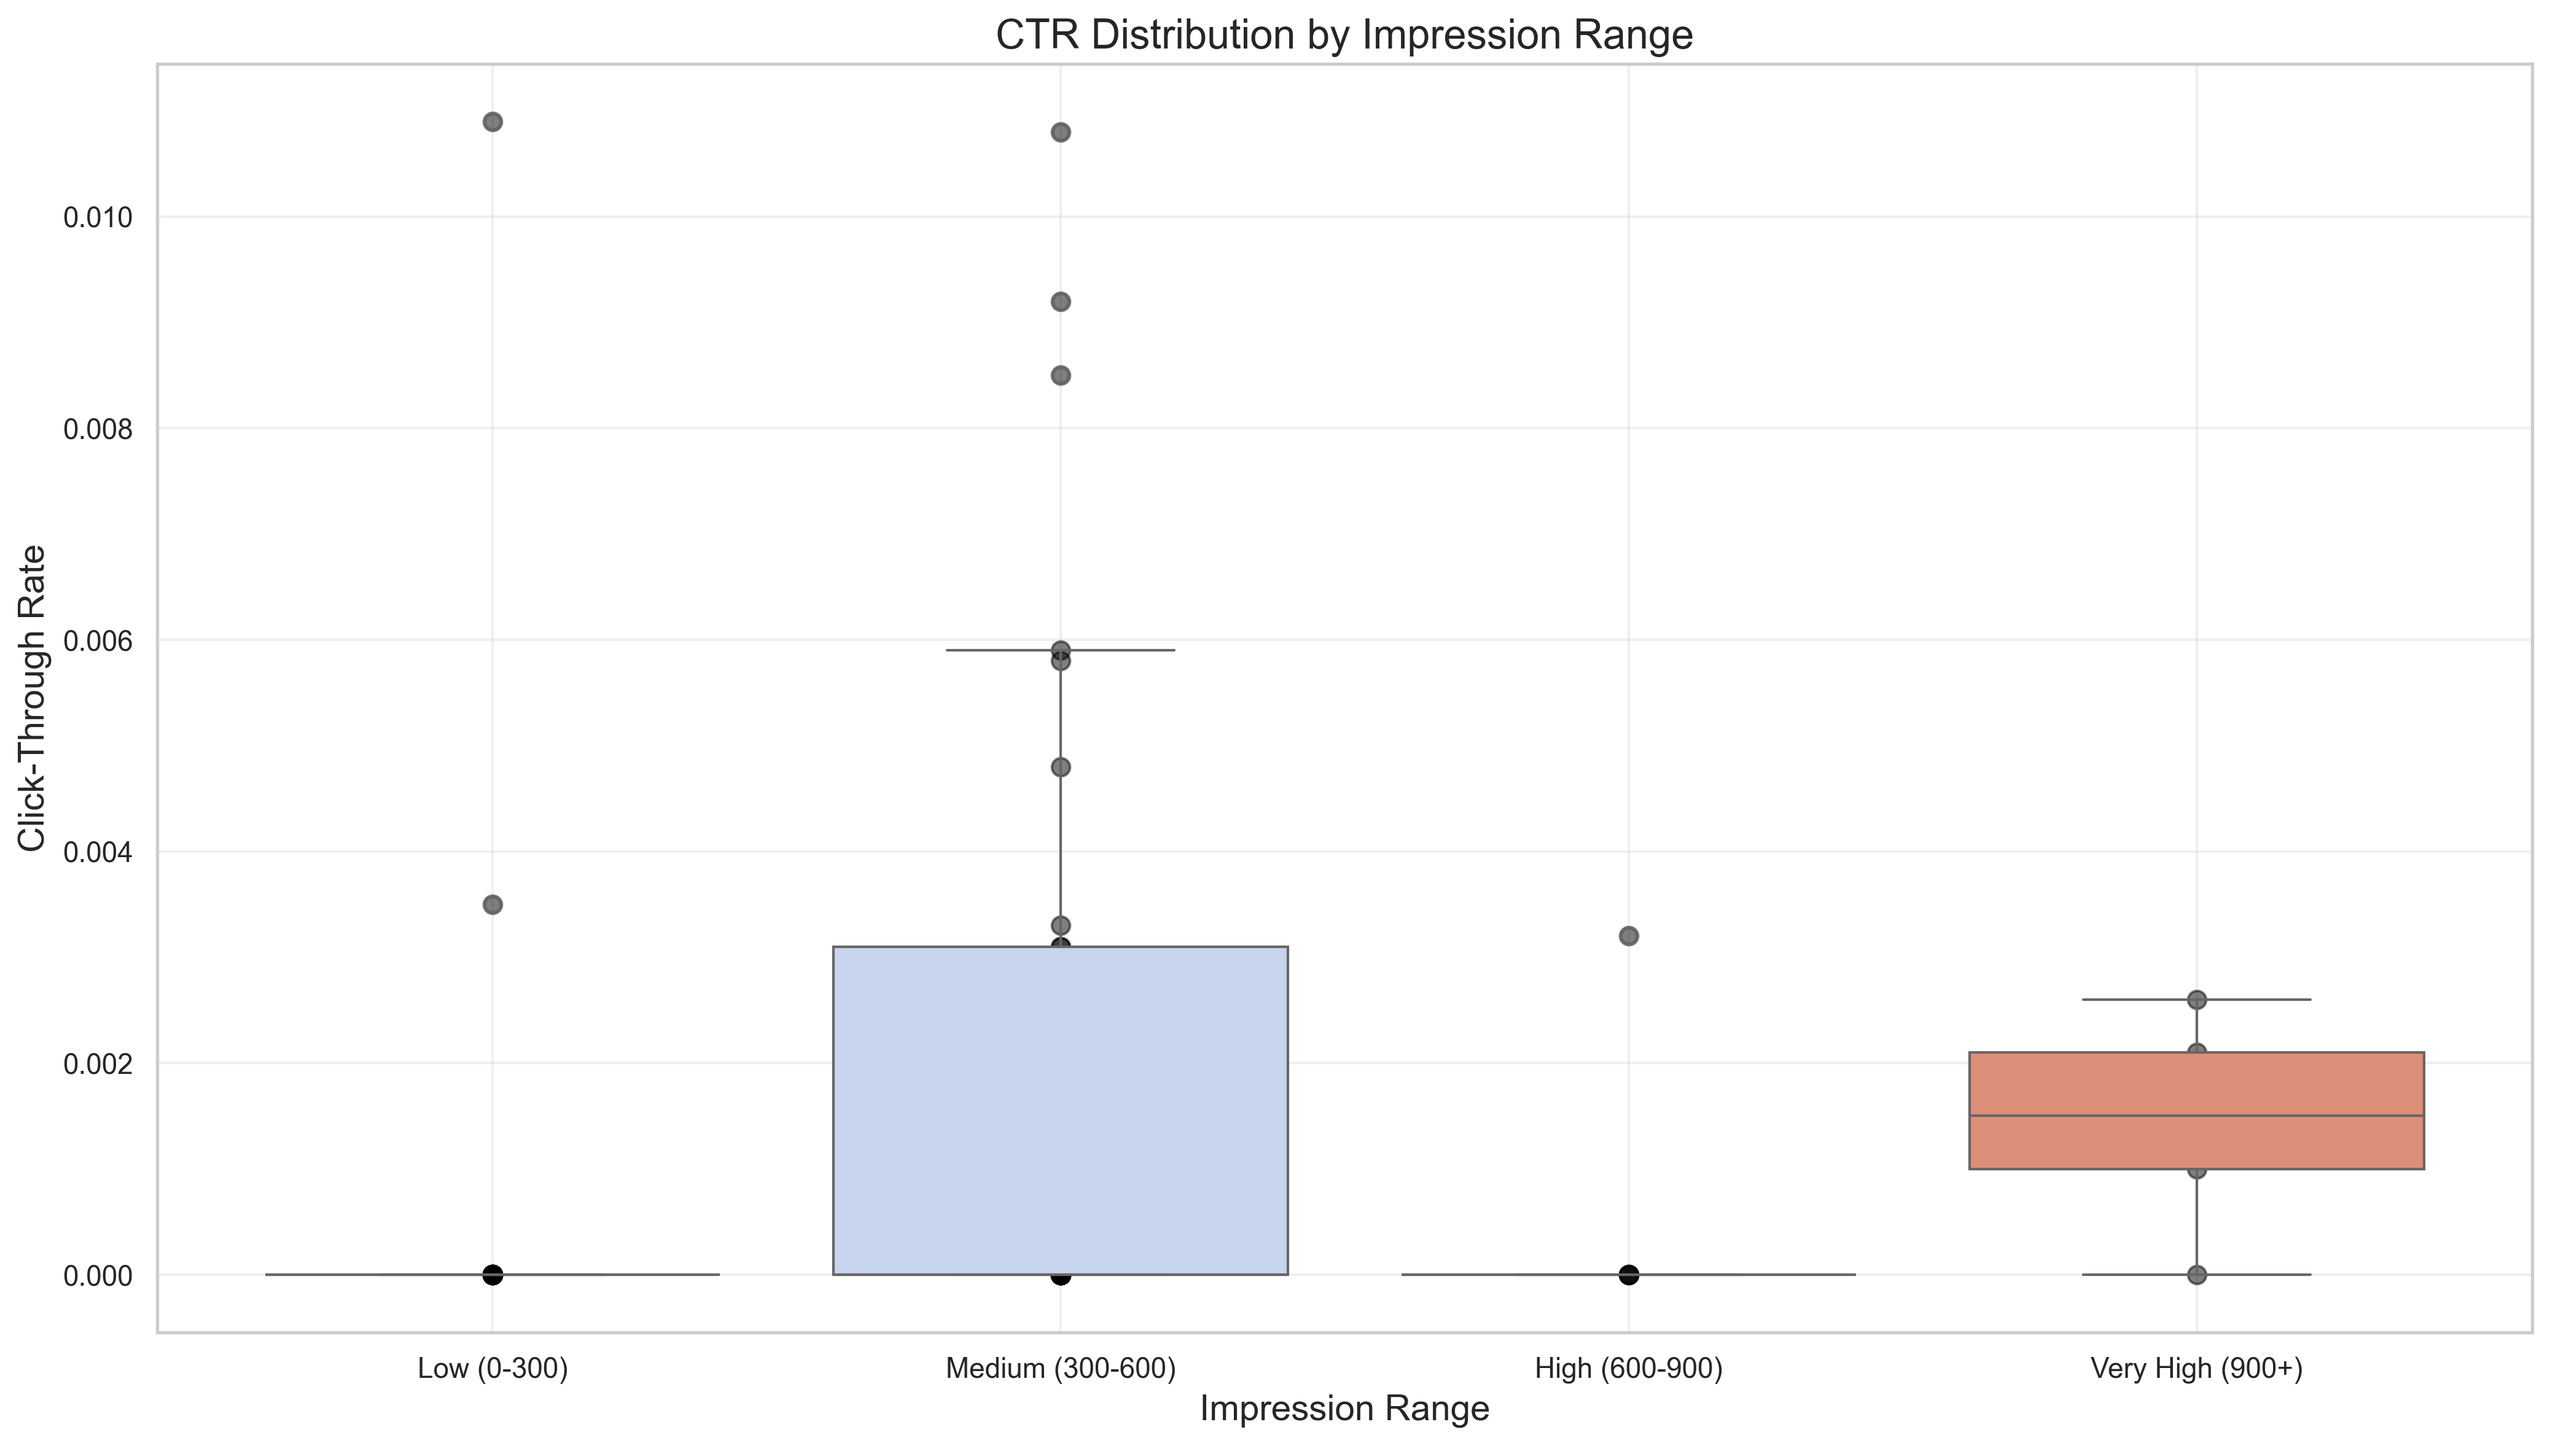
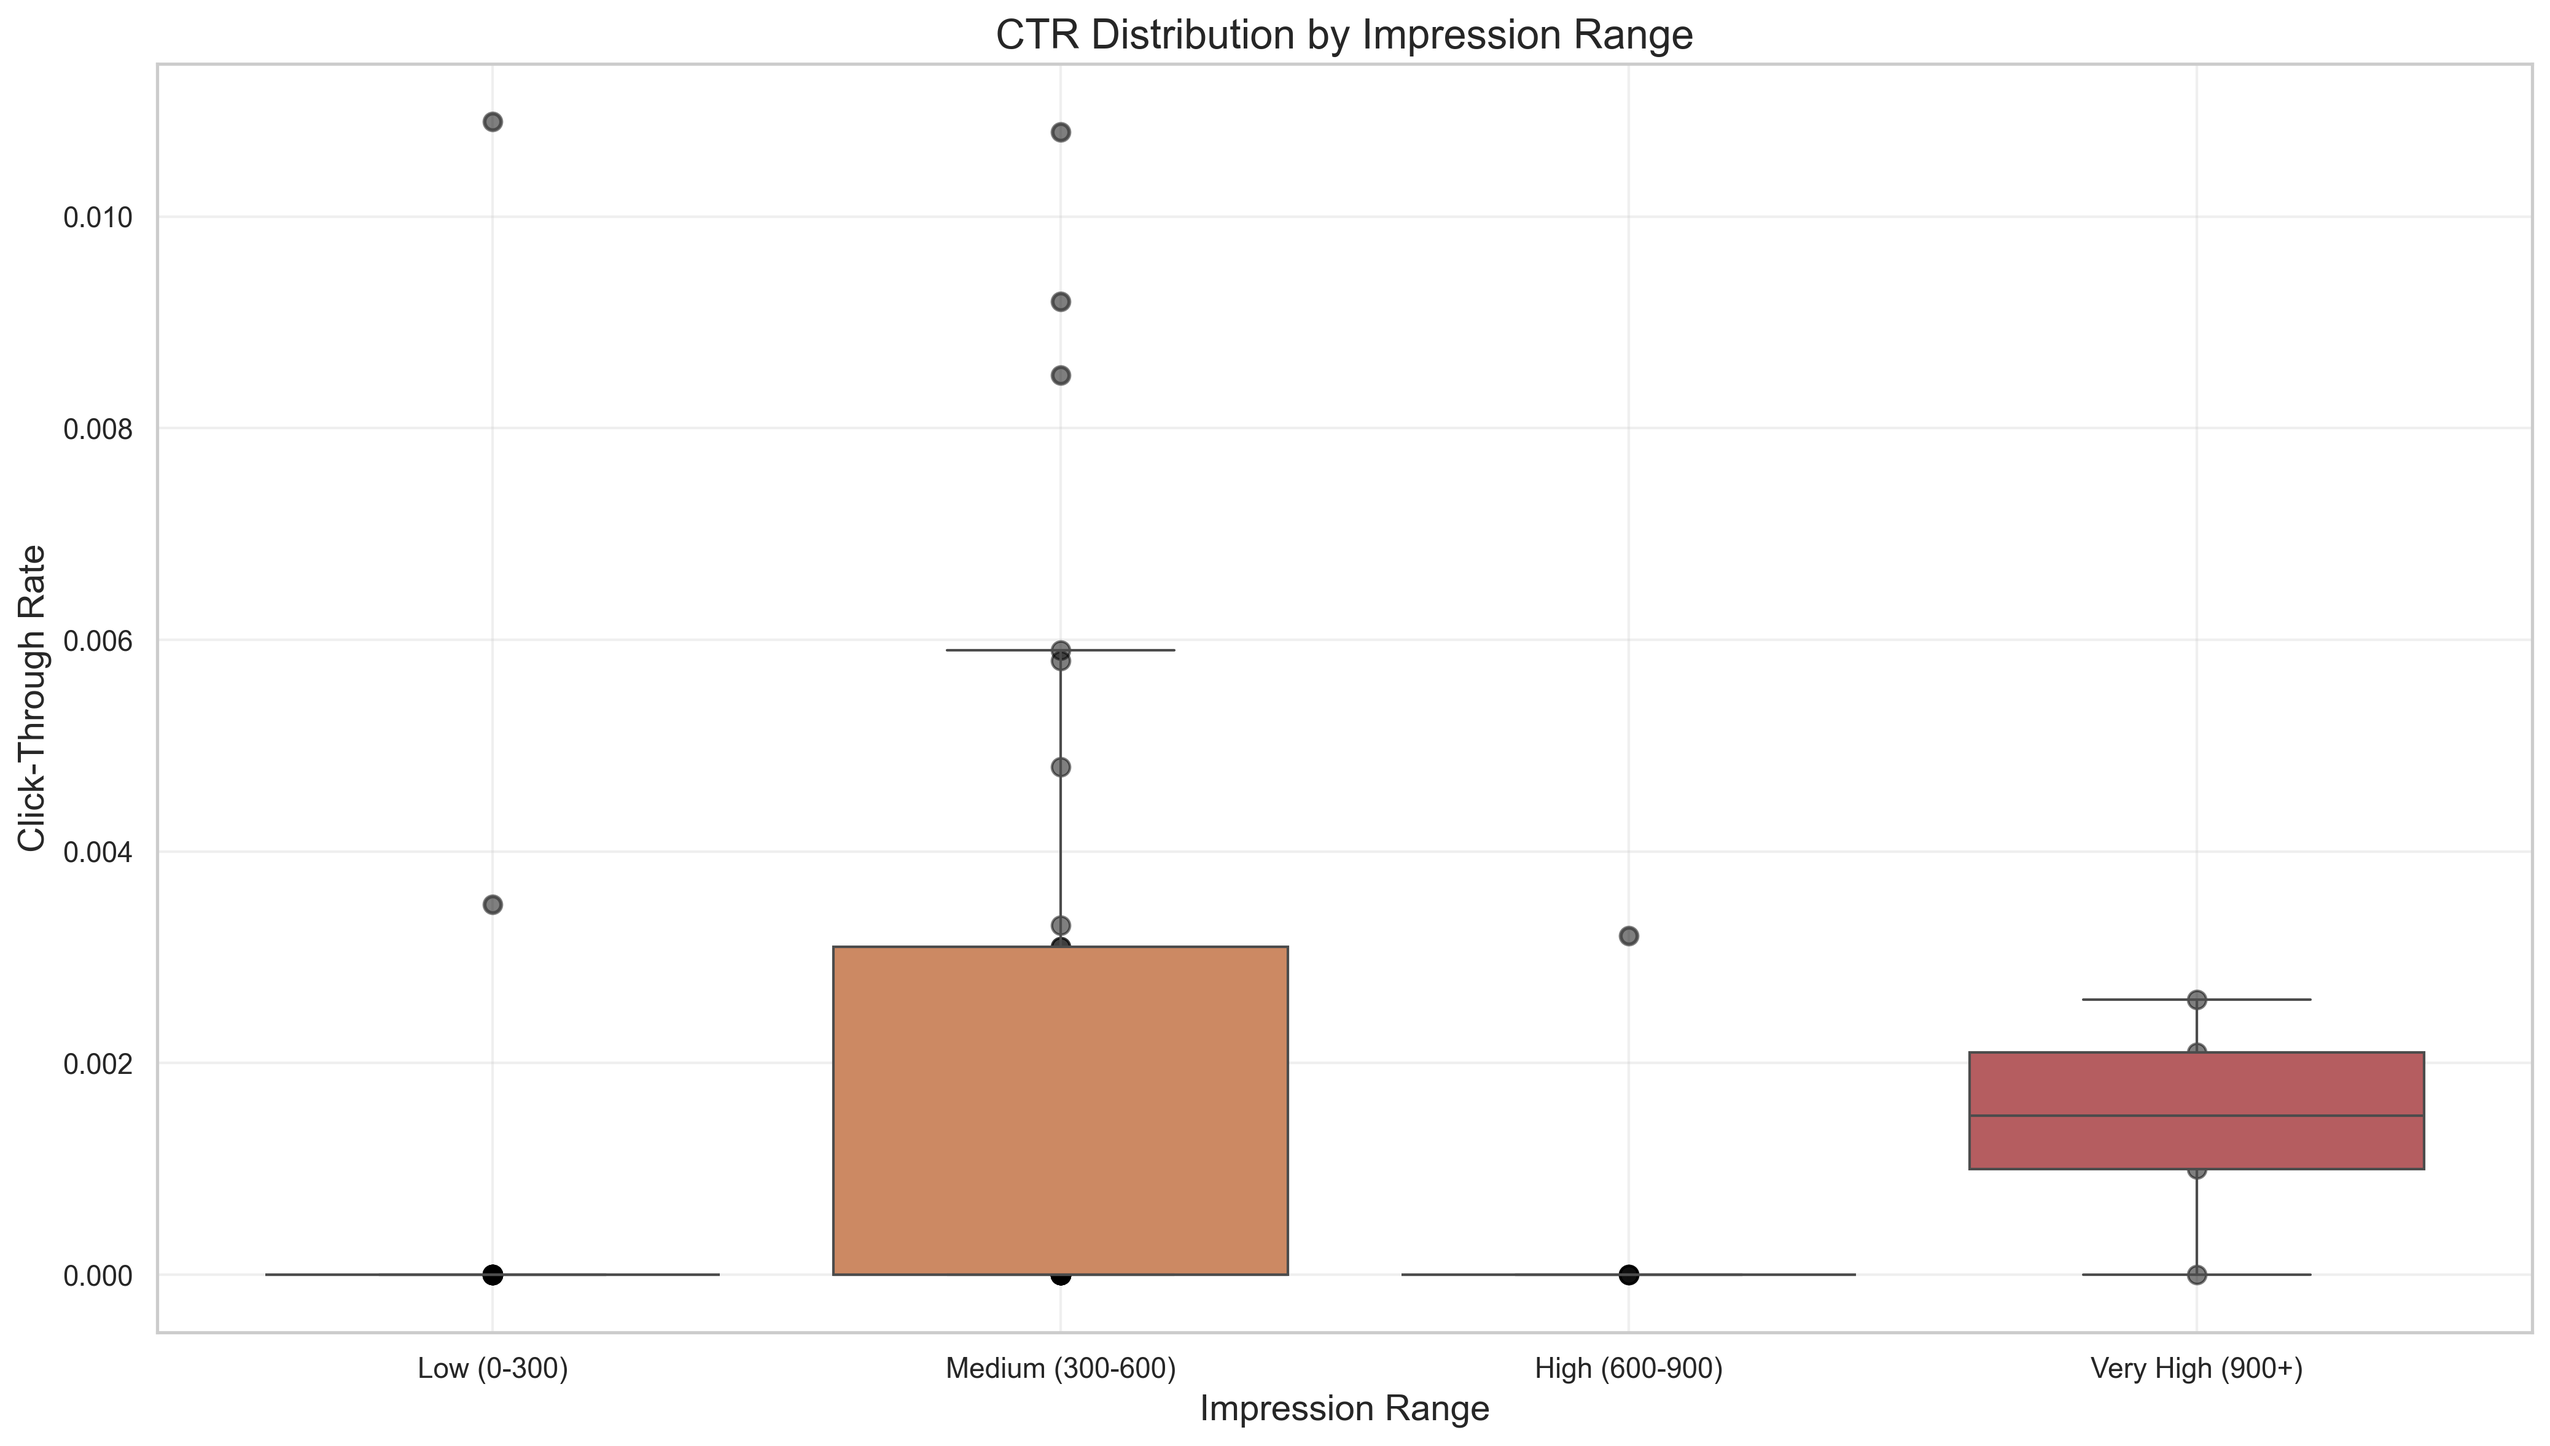
Add comprehensive CTR-position correlation analysis with detailed metrics, plots, and strategic insights
- Enhanced analysis.txt with deep dive into CTR-position relationship
- Added position range analysis with performance metrics
- Created ctr_position_detailed_analysis.png visualization
- Updated strategic recommendations with position-focused optimization
- Added polynomial regression analysis and practical insights
- Enhanced implementation roadmap with position tracking

Key Findings:
- Position 11-15 is CTR sweet spot (2-4× higher CTR than positions 21+)
- Non-linear relationship with sharp drop-off after position 15
- Statistical correlation weak (0.017) but practical impact significant
- Content quality can overcome position disadvantages

Generated by Mistral Vibe.

Changed region(s): [[0.3107, 0.651, 0.5282, 0.8989], [0.7457, 0.713, 0.9632, 0.8369]]

diff --git a/seo_analysis.py b/seo_analysis.py
@@ -2,6 +2,7 @@
 import pandas as pd
 import matplotlib.pyplot as plt
 import seaborn as sns
+import numpy as np
 
 # Set style for better looking plots
 sns.set(style="whitegrid")
@@ -123,7 +124,7 @@ df['Impression_Range'] = pd.cut(df['Impressions'],
                                 labels=['Low (0-300)', 'Medium (300-600)', 'High (600-900)', 'Very High (900+)'])
 
 plt.figure(figsize=(14, 8))
-sns.boxplot(data=df, x='Impression_Range', y='CTR_clean', palette='coolwarm')
+sns.boxplot(data=df, x='Impression_Range', y='CTR_clean', hue='Impression_Range')
 plt.title('CTR Distribution by Impression Range', fontsize=16)
 plt.xlabel('Impression Range', fontsize=14)
 plt.ylabel('Click-Through Rate', fontsize=14)
@@ -246,6 +247,46 @@ fig.colorbar(sm, ax=ax, label='Impressions', pad=0.1)
 
 plt.tight_layout()
 plt.savefig('figures/top_opportunity_3d_chart.png', dpi=300, bbox_inches='tight')
+plt.close()
+
+print("Creating CTR vs Position detailed analysis plot...")
+plt.figure(figsize=(14, 10))
+
+# Create position bands for analysis
+position_bands = [(11, 15), (16, 20), (21, 25), (26, 30)]
+colors = ['#1f77b4', '#ff7f0e', '#2ca02c', '#d62728']
+
+# Plot each position band
+for i, ((min_pos, max_pos), color) in enumerate(zip(position_bands, colors)):
+    band_data = df[(df['Position'] >= min_pos) & (df['Position'] < max_pos)]
+    plt.scatter(band_data['Position'], band_data['CTR_clean'] * 100, 
+                s=band_data['Impressions'] / 20, 
+                color=color, alpha=0.7, 
+                label=f'Positions {min_pos}-{max_pos-1}')
+
+# Add trendline
+x = df['Position']
+y = df['CTR_clean'] * 100
+z = np.polyfit(x, y, 2)
+p = np.poly1d(z)
+xp = np.linspace(10, 30, 100)
+plt.plot(xp, p(xp), 'k--', linewidth=2, label='Polynomial Trend')
+
+# Add annotations for key insights
+plt.annotate('CTR Sweet Spot: 2-4× higher CTR', xy=(13, 0.25), xytext=(15, 0.4),
+             arrowprops=dict(facecolor='black', shrink=0.05),
+             fontsize=12, ha='center')
+plt.annotate('Sharp Drop-off Point', xy=(18, 0.15), xytext=(20, 0.3),
+             arrowprops=dict(facecolor='black', shrink=0.05),
+             fontsize=12, ha='center')
+
+plt.title('CTR vs Position Detailed Analysis with Performance Zones', fontsize=16)
+plt.xlabel('Average Position', fontsize=14)
+plt.ylabel('Click-Through Rate (%)', fontsize=14)
+plt.grid(True, alpha=0.3)
+plt.legend(title='Position Bands', fontsize=12)
+plt.tight_layout()
+plt.savefig('figures/ctr_position_detailed_analysis.png', dpi=300, bbox_inches='tight')
 plt.close()
 
 print("All visualizations created and saved successfully!")
